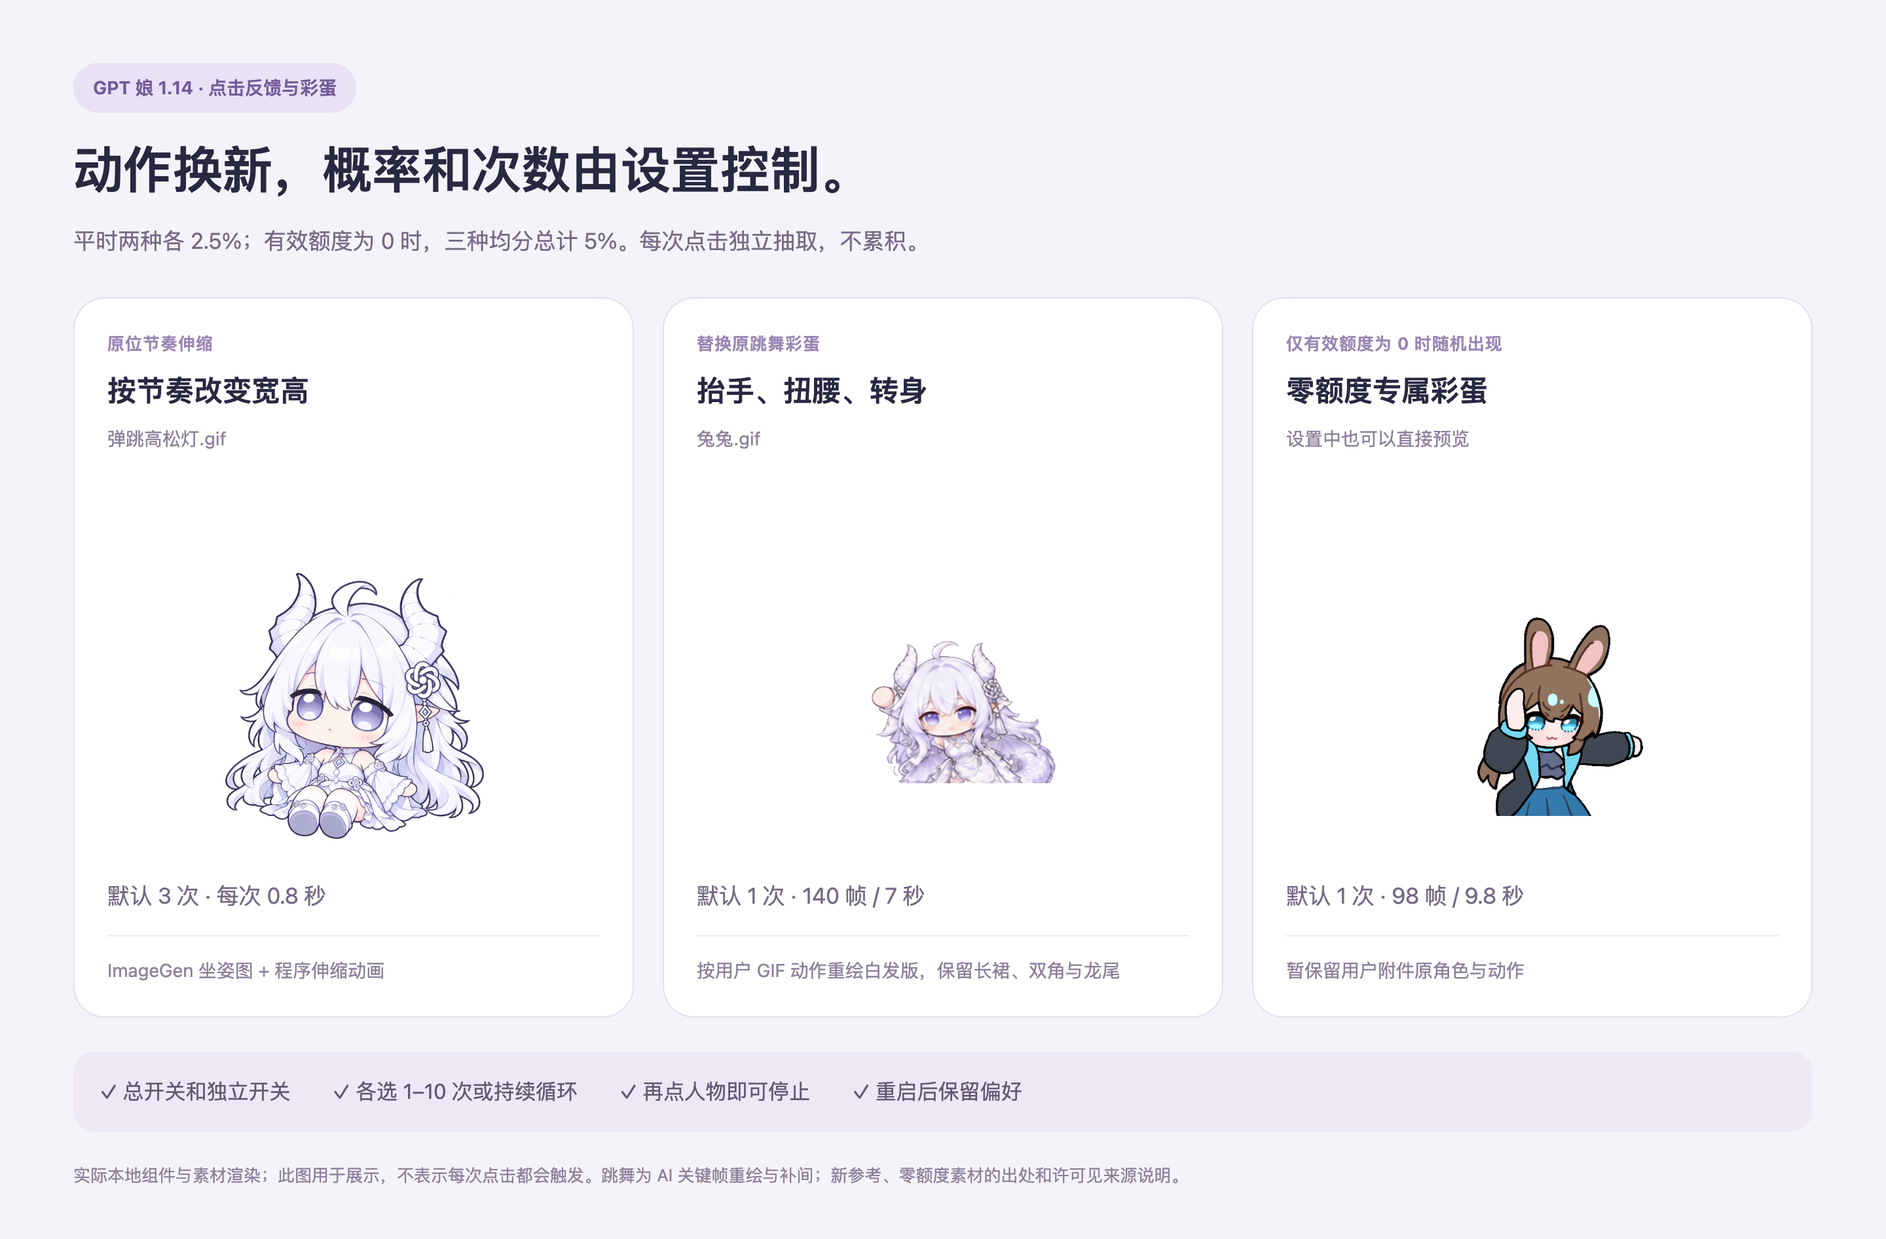
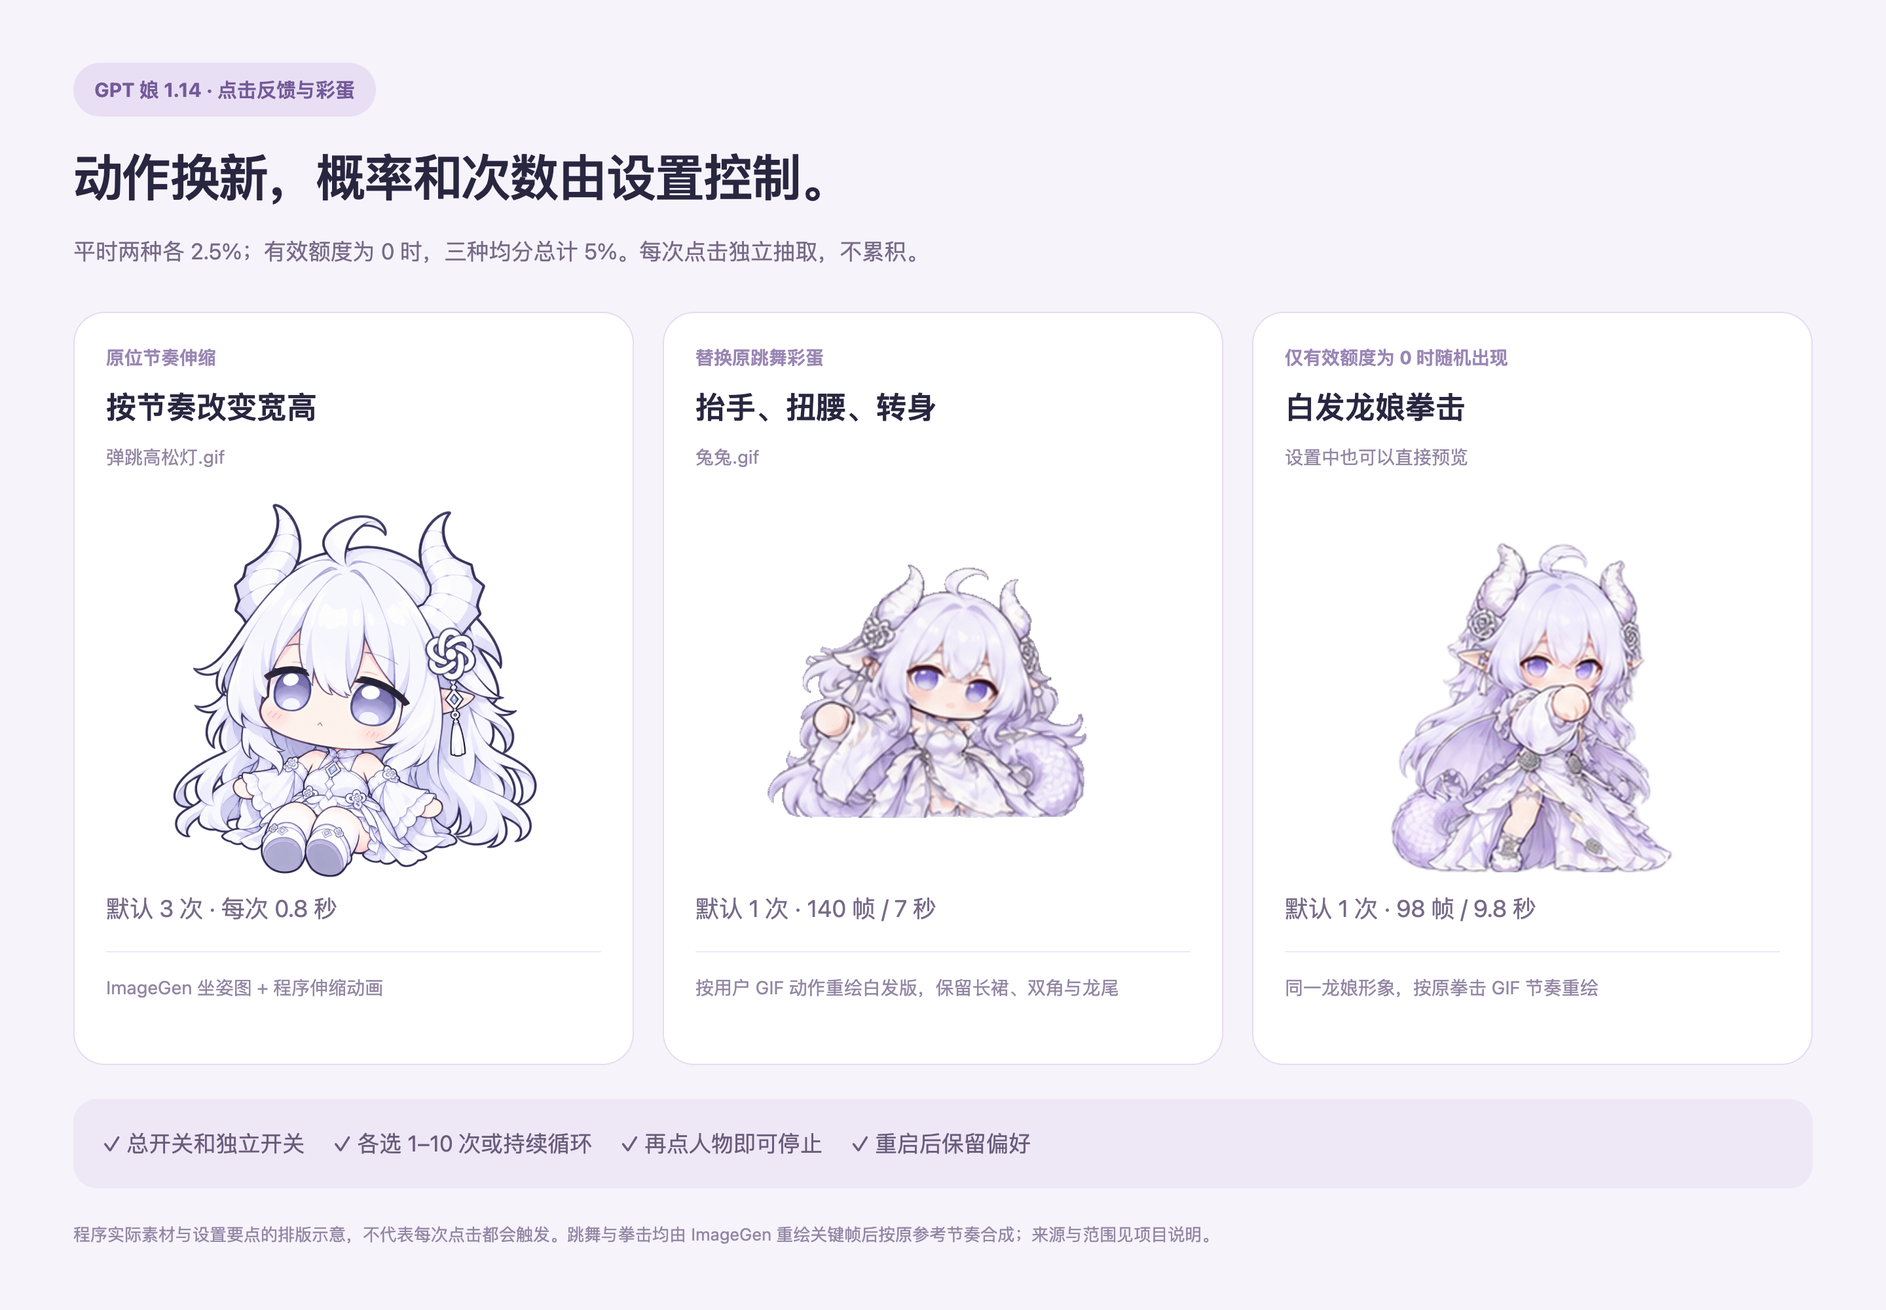
Redraw zero-quota boxing as the white dragon girl

diff --git a/README.md b/README.md
@@ -26,7 +26,7 @@
 | 低额度状态 | 任一有效额度窗口低于 5% 时切换低额度形象和台词；有效额度恢复后自动还原 |
 | 图片自定义 | 普通形象与低额度形象分别导入、恢复默认，低额度台词可编辑 |
 | 普通点击动画 | 触摸板轻点也完整压下、回弹；可调 0.5–3 倍速度，或选择立即到达压缩姿态；偏好在重启后保留 |
-| 点击彩蛋 | 坐姿节奏伸缩、重绘跳舞和零额度彩蛋；平时两种各 2.5%，有效额度为 0 时三种均分总计 5%，不累积 |
+| 点击彩蛋 | 坐姿节奏伸缩、重绘跳舞和白发龙娘零额度拳击；平时两种各 2.5%，有效额度为 0 时三种均分总计 5%，不累积 |
 | 彩蛋控制 | 总开关、独立开关；各选 1–10 次或持续循环；点击人物可停止 |
 | 独立资源加载 | 网页与彩蛋优先读取 App 内部资源；移开构建资源后仍通过完整启动检查，无需保留源码目录 |
 | 安装 | Apple Silicon 安装包内置经过官方校验的 Node.js，无需另外安装 Node.js |
@@ -39,13 +39,13 @@
 
 ![彩蛋效果与播放设置说明](docs/images/demo-eggs.png)
 
-设置里可以预览三种彩蛋，也可以独立关闭或调整次数。坐姿图片为 AI 根据角色参考生成；当前跳舞以用户提供的 140 帧 GIF 为动作参考，使用 ImageGen 重绘白发龙娘关键帧，再合成为 7 秒透明动画；形象图只用于长裙、龙角、发饰和龙尾等设计参考。零额度彩蛋暂保留用户附件原角色及动作。普通立绘由用户提供并保留原图内容，各类来源分别记录在 [CREDITS](docs/CREDITS.md)。
+设置里可以预览三种彩蛋，也可以独立关闭或调整次数。坐姿图片为 AI 根据角色参考生成；当前跳舞以用户提供的 140 帧 GIF 为动作参考，使用 ImageGen 重绘白发龙娘关键帧，再合成为 7 秒透明动画；形象图只用于长裙、龙角、发饰和龙尾等设计参考。零额度拳击彩蛋也按用户提供的 98 帧 GIF 动作重绘为白发龙娘，使用 25 张 AI 关键帧与整体姿态补间合成 9.8 秒透明动画。普通立绘由用户提供并保留原图内容，各类来源分别记录在 [CREDITS](docs/CREDITS.md)。
 
 | 普通轻点 | 坐姿 stretch |
 | --- | --- |
 | <img src="docs/media/press-character.gif" width="280" alt="完整点按反馈"> | <img src="docs/media/squish-character.gif" width="280" alt="原位伸缩"> |
 
-| 白发龙娘新跳舞 | 零额度彩蛋 |
+| 白发龙娘新跳舞 | 白发龙娘零额度拳击 |
 | --- | --- |
 | <img src="docs/media/dance.gif" width="360" alt="140帧新跳舞"> | <img src="docs/media/zero.gif" width="280" alt="零额度专属"> |
 
@@ -73,7 +73,7 @@
 
 - **坐姿伸缩**：在原位按节奏改变宽高，以可见脚底为支点。默认 3 次，每次 0.8 秒。
 - **跳舞**：替换早期视频抠图版；按用户提供 GIF 的抬手、扭腰、转背和转回顺序重绘。输出 140 帧、7 秒，默认 1 次。由 28 张 AI 关键帧与运动补间构成，不把它宣称为原 GIF 逐帧换装或原画师绘制。
-- **零额度**：仅在当前有效、未过期的额度窗口确实等于 0 时，点击才参与随机触发。保留用户提供的 98 帧、9.8 秒原动图，默认 1 次；设置内可直接预览。
+- **零额度**：仅在当前有效、未过期的额度窗口确实等于 0 时，点击才参与随机触发。按用户提供的拳击 GIF 重绘为白发龙娘，保留长裙、双角、发饰和龙尾；25 张 AI 关键帧按原时间与整体姿态补间，输出 98 帧、9.8 秒，默认 1 次；设置内可直接预览。
 - 平时伸缩和跳舞各 2.5%；有效额度为 0 时，三种各占 `5% ÷ 3`（约 1.67%），合计最多 5%。每次点击独立抽取，关闭某种不会把概率转给其他种。失败、旧快照、已过重置时间的窗口或四舍五入看起来为 0 的正数，不触发零额度彩蛋。
 - 开关和次数在重启后保留；再次点击人物可以停止播放。设置里的预览按钮可直接查看效果。
 
@@ -87,7 +87,7 @@
 | 早期跳舞视频素材 | [这个刀子真甜](https://space.bilibili.com/23315338/)：《[大肥鱼一键跟跳](https://www.bilibili.com/video/BV1ovpE66Es8/)》 |
 | 形象来源 | [ZipZipPipe](https://space.bilibili.com/4168597/)，按用户提供的形象出处署名 |
 
-普通立绘由用户提供；坐姿彩蛋基于角色参考、通过 ImageGen 制作；早期跳舞 GIF 从上述视频中提取并处理透明背景。当前替换版是基于用户另行提供的 140 帧动作参考重绘；零额度原动图也由用户提供，出处与许可待确认。原角色设计和视频动作归对应创作者，本改版记录素材来源与处理方式。
+普通立绘由用户提供；坐姿彩蛋基于角色参考、通过 ImageGen 制作；早期跳舞 GIF 从上述视频中提取并处理透明背景。当前替换版是基于用户另行提供的 140 帧动作参考重绘；零额度拳击也依据用户另行提供的 GIF 动作参考重绘，出处与许可待确认。原角色设计和视频动作归对应创作者，本改版记录素材来源与处理方式。
 
 本次需求、使用反馈和发布由 CatGod4456 整理；代码修改与验证使用 Codex 辅助完成。更完整的代码关系、素材加工和许可说明见 [CREDITS](docs/CREDITS.md)。
 

diff --git a/docs/RELEASE-1.14.md b/docs/RELEASE-1.14.md
@@ -13,7 +13,7 @@
 - 本地 WebView 展示气泡和人物，继续使用原生设置与额度后台。普通、低额度形象可分别导入；低额度台词可编辑。
 - 触摸板轻点也完整播完压下和回弹，支持 0.5–3 倍速度，或立即到达压缩姿态。
 - 替换原跳舞彩蛋：按用户提供的 GIF 动作重绘白发龙娘，保留长裙、龙角、发饰和龙尾。140 帧、7 秒，包含抬手、扭腰、转背和转回；形象参考中的走路动作不用于这段动画。
-- 新增零额度彩蛋：只有新鲜、有效、未过期的额度窗口精确等于 0 时，点击才参与随机触发。
+- 新增白发龙娘零额度拳击：按用户提供的拳击动图重绘，保留长裙、双角、发饰和龙尾。只有新鲜、有效、未过期的额度窗口精确等于 0 时，点击才参与随机触发。
 - 三种彩蛋分别可开关、预览，选择 1–10 次或持续循环；再次点击人物可以停止，偏好在重启后保留。
 - 内置经过官方校验的 Node.js；网页和动图读取 App 内部资源，独立安装无需保留源码目录。
 
@@ -34,7 +34,7 @@
 
 <small>伸缩示例：弹跳高松灯.gif</small>
 
-| 新跳舞，替换原版本 | 零额度专属 |
+| 新跳舞，替换原版本 | 白发龙娘拳击，零额度专属 |
 | --- | --- |
 | <img src="media/dance.gif" width="360" alt="140帧白发龙娘跳舞"> | <img src="media/zero.gif" width="280" alt="零额度彩蛋"> |
 
@@ -42,7 +42,7 @@
 
 默认伸缩 3 次（每次 0.8 秒），跳舞 1 次（7 秒），零额度彩蛋 1 次（9.8 秒）。上面的展示 GIF 会重复播放；应用资源自身不无限循环，由设置决定播放次数。
 
-当前白发跳舞由 ImageGen 重绘 28 张关键帧，再按原 GIF 的时间与整体姿态变化补间输出为 140 帧；属于 AI 辅助重绘，不宣称是原 GIF 的逐帧换装或原画师绘制。零额度动图暂保留用户附件原角色与 98 帧动作。
+当前白发跳舞由 ImageGen 重绘 28 张关键帧，再按原 GIF 的时间与整体姿态变化补间输出为 140 帧；属于 AI 辅助重绘，不宣称是原 GIF 的逐帧换装或原画师绘制。零额度拳击使用 ImageGen 重绘 25 张白发龙娘关键帧，按原拳击 GIF 的节奏与整体姿态变化补间合成为 98 帧、9.8 秒；同样属于 AI 辅助重绘。两段保留各自的原参考时间，不宣称为逐帧无损换装。
 
 [播放带内置点按音效的演示](media/press-sound.mp4)。GIF 没有声音，视频使用程序原有的按下、松开音效。
 
@@ -73,7 +73,7 @@
 | [这个刀子真甜](https://space.bilibili.com/23315338/) | 早期《[大肥鱼一键跟跳](https://www.bilibili.com/video/BV1ovpE66Es8/)》素材及项目用途同意，历史记录保留 |
 | [ZipZipPipe](https://space.bilibili.com/4168597/) | 按维护者提供的形象出处署名 |
 
-当前新动作参考和零额度原动图由用户另行提供，原作者与公开分发条件待确认；不套用早期视频片段的同意。角色、参考图和视频动画不因代码开源而适用 MIT。完整来源与范围见 [CREDITS](CREDITS.md)、[素材许可记录](ASSET-PERMISSIONS.md)。
+当前跳舞与零额度拳击的动作参考由用户另行提供，原作者与公开分发条件待确认；不套用早期视频片段的同意。角色、参考图和视频动画不因代码开源而适用 MIT。完整来源与范围见 [CREDITS](CREDITS.md)、[素材许可记录](ASSET-PERMISSIONS.md)。
 
 [关注主播](https://space.bilibili.com/319500223/) 谢谢喵
 

diff --git a/docs/SHOWCASE.md b/docs/SHOWCASE.md
@@ -26,7 +26,7 @@
 
 ![彩蛋和设置说明](images/demo-eggs.png)
 
-这张图展示实际素材与组件效果，展示实际素材与设置要点，并非原生设置窗口截图。平时伸缩、跳舞各 2.5%；有效额度为 0 时，三种彩蛋各占总计 5% 的三分之一，不累积。每种可选 1–10 次或持续循环，也可关闭；再点人物可停止。
+这张图展示实际素材与设置要点，并非原生设置窗口截图。平时伸缩、跳舞各 2.5%；有效额度为 0 时，三种彩蛋各占总计 5% 的三分之一，不累积。每种可选 1–10 次或持续循环，也可关闭；再点人物可停止。
 
 ### 原位 stretch
 
@@ -48,7 +48,7 @@
 
 <img src="media/zero.gif" width="360" alt="仅零额度随机触发的彩蛋">
 
-保留用户附件原角色和 98 帧动作，9.8 秒一个周期；当前有效额度确实为 0 时才参与随机触发，设置内预览不受额度限制。新动作参考和这张动图的公开出处、许可待确认，见 [素材许可记录](ASSET-PERMISSIONS.md)。
+按用户拳击 GIF 动作参考重绘白发龙娘，保留长裙、双角、发饰与龙尾。25 张 AI 关键帧经整体姿态补间合成为 98 帧，9.8 秒一个周期；当前有效额度确实为 0 时才参与随机触发，设置内预览不受额度限制。新动作参考和这张动图的公开出处、许可待确认，见 [素材许可记录](ASSET-PERMISSIONS.md)。
 
 ## 实机案例
 
@@ -58,4 +58,4 @@
 
 ## 创作者与生成来源
 
-应用源码主体来自 T7moris/GPT-Niang；形象来源 ZipZipPipe；早期跳舞视频素材来自这个刀子真甜《大肥鱼一键跟跳》；当前替换跳舞与零额度动图的原始参考由用户另行提供。坐姿图通过 ImageGen 根据角色参考生成，普通立绘由用户提供，当前跳舞为 AI 重绘关键帧与补间；早期视频片段的记录另保留。图示排版与本次程序更新使用 GPT / Codex 辅助完成。完整署名与许可边界见 [CREDITS](CREDITS.md)。
+应用源码主体来自 T7moris/GPT-Niang；形象来源 ZipZipPipe；早期跳舞视频素材来自这个刀子真甜《大肥鱼一键跟跳》；当前替换跳舞与零额度动图的原始参考由用户另行提供。坐姿图通过 ImageGen 根据角色参考生成，普通立绘由用户提供，当前跳舞与零额度拳击为 AI 重绘关键帧与补间；早期视频片段的记录另保留。图示排版与本次程序更新使用 GPT / Codex 辅助完成。完整署名与许可边界见 [CREDITS](CREDITS.md)。

diff --git a/docs/media/README.md b/docs/media/README.md
@@ -4,9 +4,12 @@
 - `squish-character.gif`：仅人物、透明背景的原位伸缩，三次后停留再展示。
 - `press-sound.mp4`：实际组件的三次点按，混入应用内置按下和松开音效，72% / 89% 为演示数据。
 - `dance.gif`：当前白发跳舞的循环预览，140 帧、7 秒。
-- `zero.gif`：用户提供的兔耳角色原动图循环预览，98 帧、9.8 秒。
+- `zero.gif`：按用户拳击 GIF 动作参考重绘的白发龙娘循环预览，98 帧、9.8 秒。
 - `dance-keyframes.png`：ImageGen 重绘的 28 张舞蹈关键帧，保留为生成来源。形象参考只用于长裙、龙角、发饰和尾巴；动作以用户提供的 140 帧 GIF 为准，再按原时间和整体姿态变化补间。
+
+- `zero-keyframes-prompt.txt`：本次 ImageGen 关键帧生成的完整提示词，不含账号或本机路径。
+- `zero-keyframes.png`：ImageGen 重绘的 25 张白发龙娘拳击关键帧，保留长裙、双角、发饰和龙尾；按用户原拳击 GIF 的时间与整体姿态变化补间。
 
 说明页的 GIF 循环用于展示。App 内对应 GIF 不带无限循环标记，由设置决定次数；两者不要混用。GIF 不含声音。
 
-角色形象来源 ZipZipPipe，普通立绘由用户提供，坐姿与跳舞关键帧通过 ImageGen 根据角色参考制作；音效沿用上游 GPT-Niang。新动作参考及零额度动图的原作者与公开许可待确认。生成和展示不改变原素材权利，见 [CREDITS](../CREDITS.md) 及 [素材许可记录](../ASSET-PERMISSIONS.md)。
+角色形象来源 ZipZipPipe，普通立绘由用户提供，坐姿、跳舞与拳击关键帧通过 ImageGen 根据角色参考制作；音效沿用上游 GPT-Niang。新动作参考及零额度动图的原作者与公开许可待确认。生成和展示不改变原素材权利，见 [CREDITS](../CREDITS.md) 及 [素材许可记录](../ASSET-PERMISSIONS.md)。

diff --git a/docs/CREDITS.md b/docs/CREDITS.md
@@ -36,7 +36,7 @@
 
 当前 `egg-dance.gif` 按维护者提供的蓝发角色 GIF（140 帧、7 秒）的动作顺序制作；形象以维护者提供的白发龙娘参考为准，保留长裙、龙角、发饰与龙尾。使用 ImageGen 重绘 28 张关键帧，再作按原 GIF 逐帧的整体姿态变化补间输出为 140 帧、7 秒的透明 GIF。动作参考图的原作者与公开许可尚待维护者确认；它不是上述 Bilibili 片段的再次截取，也不套用该片段的项目用途许可。
 
-`egg-zero.gif` 是维护者另行提供的兔耳角色动图，保留 98 帧与 9.8 秒动作，仅移除 GIF 自带无限循环标记，以便按应用设置播放。角色与动图作者、公开许可待确认。它没有被重绘成白发龙娘。
+`egg-zero.gif` 现按维护者另行提供的兔耳角色拳击 GIF 作为动作参考，重绘为同一白发龙娘。ImageGen 制作 25 张关键帧，保留长裙、双角、发饰与龙尾，再按原参考的节奏和整体姿态变化合成 98 帧、9.8 秒透明 GIF；并非原附件的逐帧无损换装。源关键帧保存在 `docs/media/zero-keyframes.png`。应用版本不带无限循环标记，由设置控制次数。原动作参考作者与公开许可仍待确认。
 
 代码 MIT 不适用于这些角色、动图及参考素材。当前仅保留私有草稿，完整范围见 [素材许可记录](ASSET-PERMISSIONS.md)。
 

diff --git a/docs/ASSET-PERMISSIONS.md b/docs/ASSET-PERMISSIONS.md
@@ -18,6 +18,6 @@
 
 ## 当前新参考与零额度动图
 
-维护者另行提供了 140 帧、7 秒的蓝发角色跳舞 GIF 作为新动作参考，以及 98 帧、9.8 秒的兔耳角色动图作为零额度彩蛋。前者经 ImageGen 重绘白发龙娘关键帧、运动补间后替换早期跳舞；后者暂保留附件原角色。白发形象仍按维护者提供出处署名 ZipZipPipe。
+维护者另行提供了 140 帧、7 秒的蓝发角色跳舞 GIF 作为新动作参考，以及 98 帧、9.8 秒的兔耳角色拳击 GIF 作为零额度动作参考。两段现在均由 ImageGen 重绘为白发龙娘关键帧，再按各自参考的时间和整体姿态变化补间合成。跳舞采用 28 张关键帧，拳击采用 25 张关键帧；兔耳角色不再作为当前零额度动画形象。白发形象仍按维护者提供出处署名 ZipZipPipe。
 
 这两份新动图／参考的原作者与公开分发许可尚未确认。本记录不把早期《大肥鱼一键跟跳》片段的同意套用到新参考，也不把代码 MIT 当作素材许可。当前代码、应用包和动图仅更新私有草稿；公开发布前由维护者确认相应素材条件。

diff --git a/docs/SECURITY-REVIEW.md b/docs/SECURITY-REVIEW.md
@@ -38,4 +38,4 @@
 
 修复网页和彩蛋优先读取 App 内资源的路径。移开构建目录中的两个资源包后，使用隔离偏好的新进程启动已安装 App，WebView、后台和当前账号额度三项启动检查均通过；测试进程与隔离数据随后清理。
 
-新增零额度分支仅在新鲜、有效、未过重置时间的额度窗口精确等于 0 时参与点击抽取；三种共用原来的 5% 概率区间，无累计和概率转移。动画素材与白名单均为本地资源；没有新增联网、远程输入或执行入口。
+新增零额度分支仅在新鲜、有效、未过重置时间的额度窗口精确等于 0 时参与点击抽取；三种共用原来的 5% 概率区间，无累计和概率转移。动画素材与白名单均为本地资源；没有新增联网、远程输入或执行入口。当前拳击素材已重绘为白发龙娘，仍为 98 帧、9.8 秒，本次没有变更触发条件、概率或后台行为。

diff --git a/更新记录.md b/更新记录.md
@@ -10,6 +10,7 @@
 - 普通短按也完整压下和回弹，支持 0.5–3 倍速度与立即压下。
 - 平时两种彩蛋各 2.5%；新增零额度彩蛋，当前有效额度为 0 时三种均分总计 5%，不累积；各自支持开关、次数与循环。
 - 用按用户 140 帧 GIF 动作重绘的白发龙娘替换早期跳舞，保持长裙和龙尾；输出 140 帧、7 秒。
+- 零额度拳击也统一为白发龙娘：25 张 AI 关键帧按用户原 GIF 节奏补间为 98 帧、9.8 秒，保留长裙、双角和龙尾。
 - 内置官方校验的 Node 运行时，优先读取 App 内资源。
 - 补充高清效果、动画与音效演示、来源署名、项目素材许可和安全／隐私检查范围。本次更新使用 GPT / Codex 辅助完成。
 
